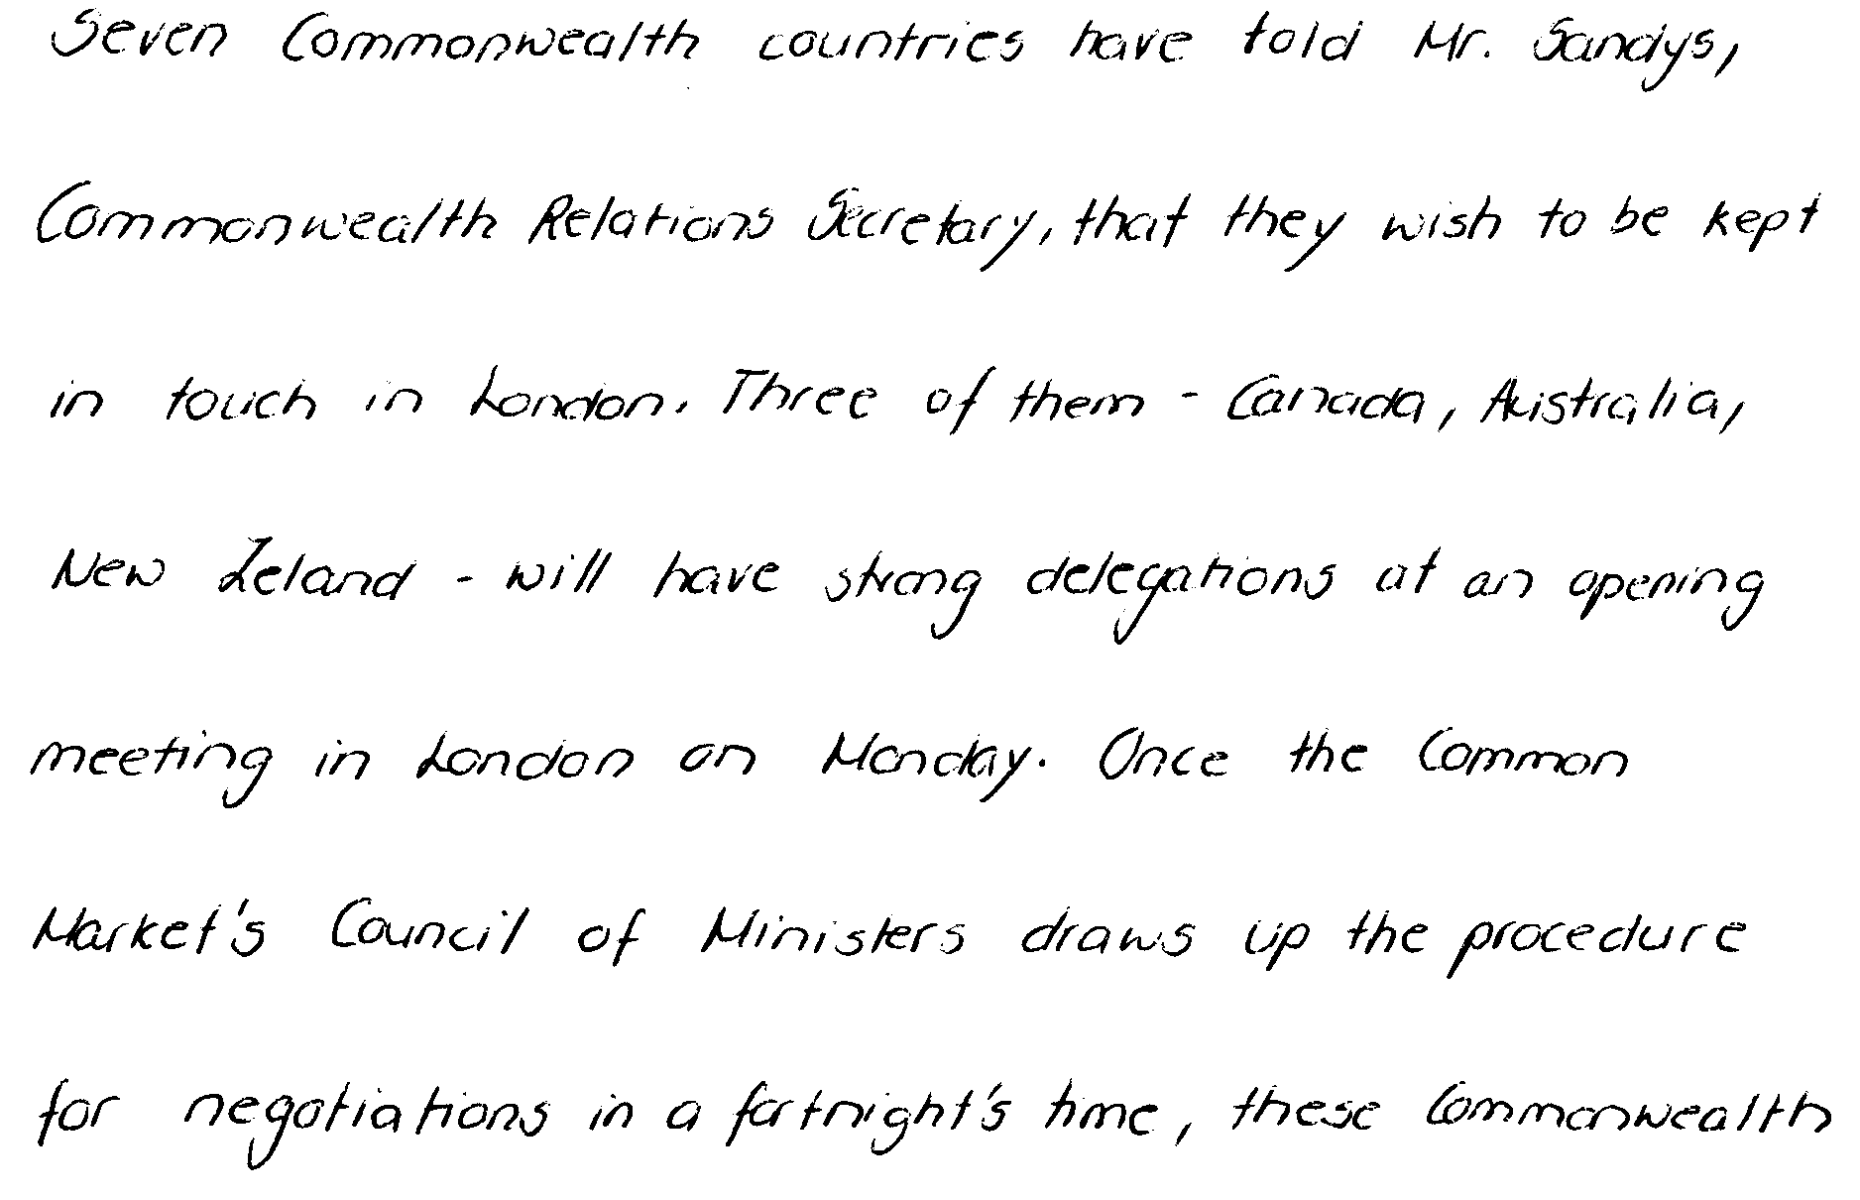
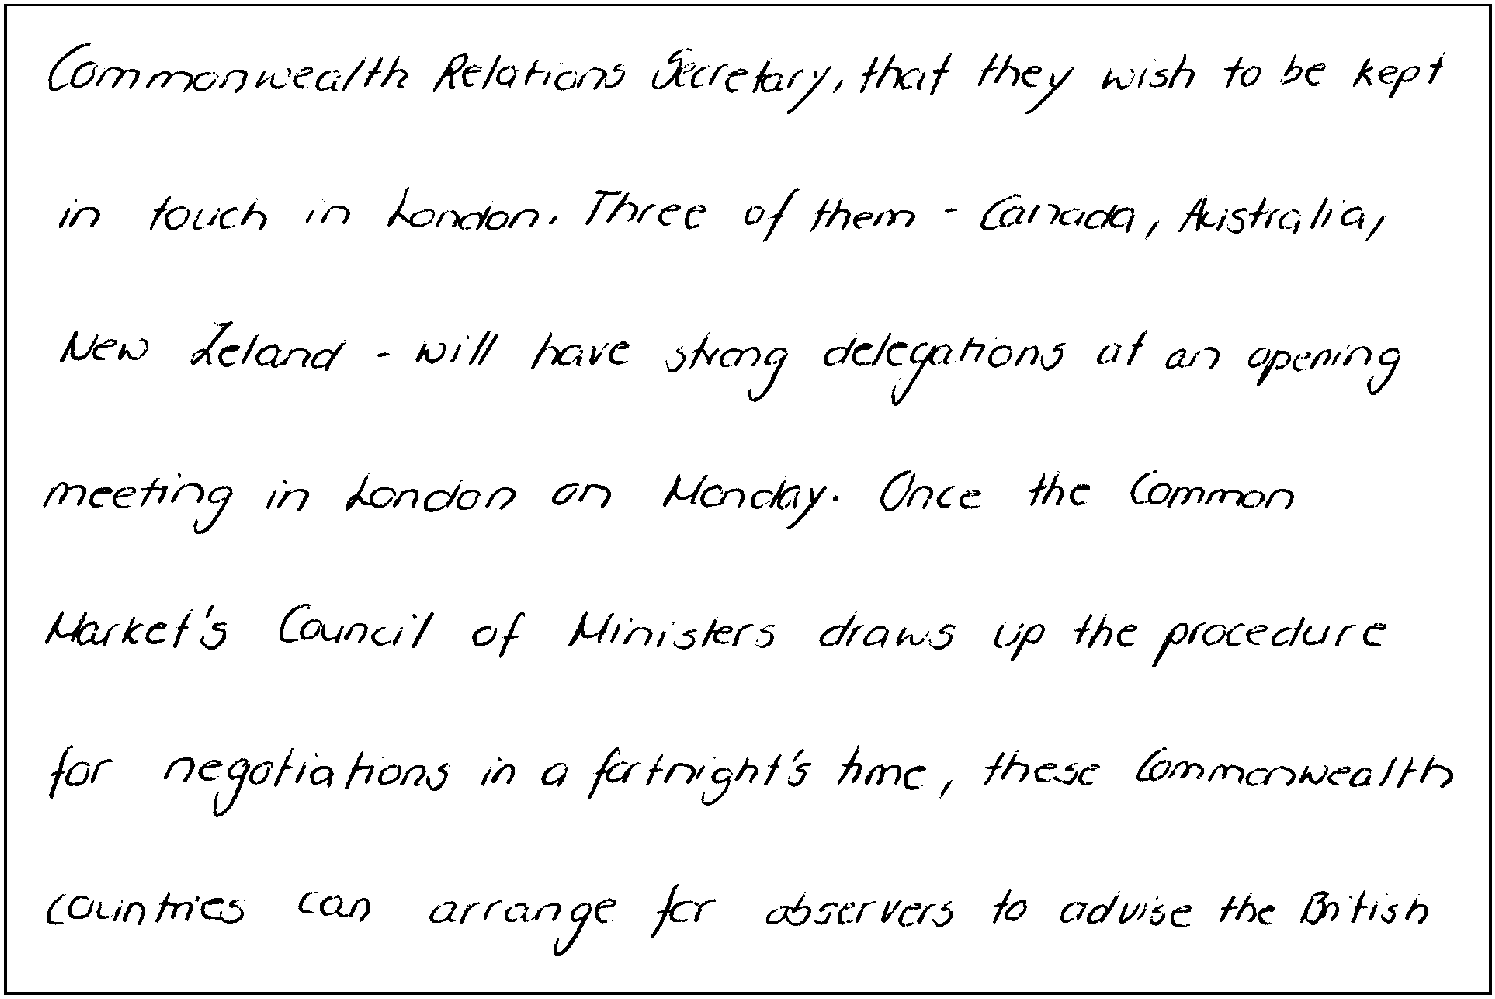
Ported scripts to Python3/OpenCV3.4, fixed bad cropping

diff --git a/version1/preprocess_iam.py b/version1/preprocess_iam.py
@@ -13,18 +13,20 @@ def preprocess(img_id):
 
 	# Detect edges
 	im_edges = cv2.Canny(thresh_img, 50, 100)
+
 	# Find straight, horizontal lines
 	lines = cv2.HoughLinesP(im_edges, 1, np.pi/180.0, 50, np.array([]), 100, 2)
 	h,w = im_edges.shape
 	y_top = 0
 	y_bot = h-1
 	half = (h-1)/2
-	for x1, y1, x2, y2 in lines[0]:
-		if y1 == y2:
-			if y1 < half and y1 > y_top:
-				y_top = y1
-			if y1 > half and y1 < y_bot:
-				y_bot = y1
+	for line in lines:
+		for x1, y1, x2, y2 in line:
+			if y1 == y2:
+				if y1 < half and y1 > y_top:
+					y_top = y1
+				if y1 > half and y1 < y_bot:
+					y_bot = y1
 
 	# Crop out database text
 	x1, y1, x2, y2 = 0, y_top, w-1, y_bot
@@ -34,10 +36,10 @@ def preprocess(img_id):
 	im_edges = cv2.Canny(crop1, 100, 200)
 	# Fill in the text using dilations
 	struct = cv2.getStructuringElement(cv2.MORPH_RECT,(5,5))
-	im2 = cv2.dilate(im_edges, struct, iterations = 15)
+	im2 = cv2.dilate(im_edges, struct, iterations = 30)
 
 	# Find connected components in the image
-	contours, hierarchy = cv2.findContours(im2, cv2.RETR_TREE, cv2.CHAIN_APPROX_SIMPLE)
+	im2, contours, hierarchy = cv2.findContours(im2, cv2.RETR_TREE, cv2.CHAIN_APPROX_SIMPLE)
 	c_info = []
 	total_area = 0
 	for c in contours:
@@ -82,6 +84,9 @@ def preprocess(img_id):
 
 	# Crop again to remove borders
 	x1, y1, x2, y2 = crop
+	cv2.rectangle(crop1,(x1,y1),(x2,y2),(0,255,0),5)
+	plt.imshow(crop1, cmap='gray')
+	plt.show()
 	crop2 = crop1[y1:y2+1, x1:x2+1]
 
 	# Save the final image

diff --git a/version1/run_all.py b/version1/run_all.py
@@ -1,6 +1,6 @@
 import preprocess_iam as iam
 import parse_data as parse
-import urllib2
+import urllib.request as urllib2 
 import getpass
 
 if __name__ == "__main__":
@@ -10,7 +10,7 @@ if __name__ == "__main__":
 	print("Downloading data")
 	# Set up authentication for database
 	url = "http://www.fki.inf.unibe.ch/DBs/iamDB/data/"
-	user = raw_input('username: ')
+	user = input('username: ')
 	password = getpass.getpass('password: ')
 	password_manager = urllib2.HTTPPasswordMgrWithDefaultRealm()
 	password_manager.add_password(None, url, user, password)

diff --git a/version1/parse_data.py b/version1/parse_data.py
@@ -1,6 +1,6 @@
 import os
 from collections import defaultdict
-import urllib2
+import urllib.request as urllib2
 from bs4 import BeautifulSoup
 
 def create_dict():
